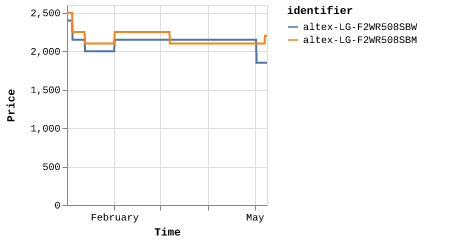
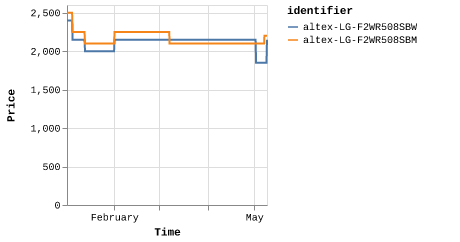
Latest scraping spalat: Thu May  9 04:40:12 UTC 2024

Changed region(s): [[0.5174, 0.0289, 0.6087, 0.9256], [0.3348, 0.0289, 0.3957, 0.8678], [0.213, 0.8967, 0.3043, 0.9256]]

diff --git a/scrapes/spalat/altex-LG-F2WR508SBW.md b/scrapes/spalat/altex-LG-F2WR508SBW.md
@@ -1,3 +1,3 @@
-1849
+2149
 
 [Source](https://altex.ro/masina-de-spalat-rufe-frontala-slim-lg-f2wr508sbw-steam-8-kg-1200rpm-clasa-a-alb/cpd/MSFF2WR508SBW/)
